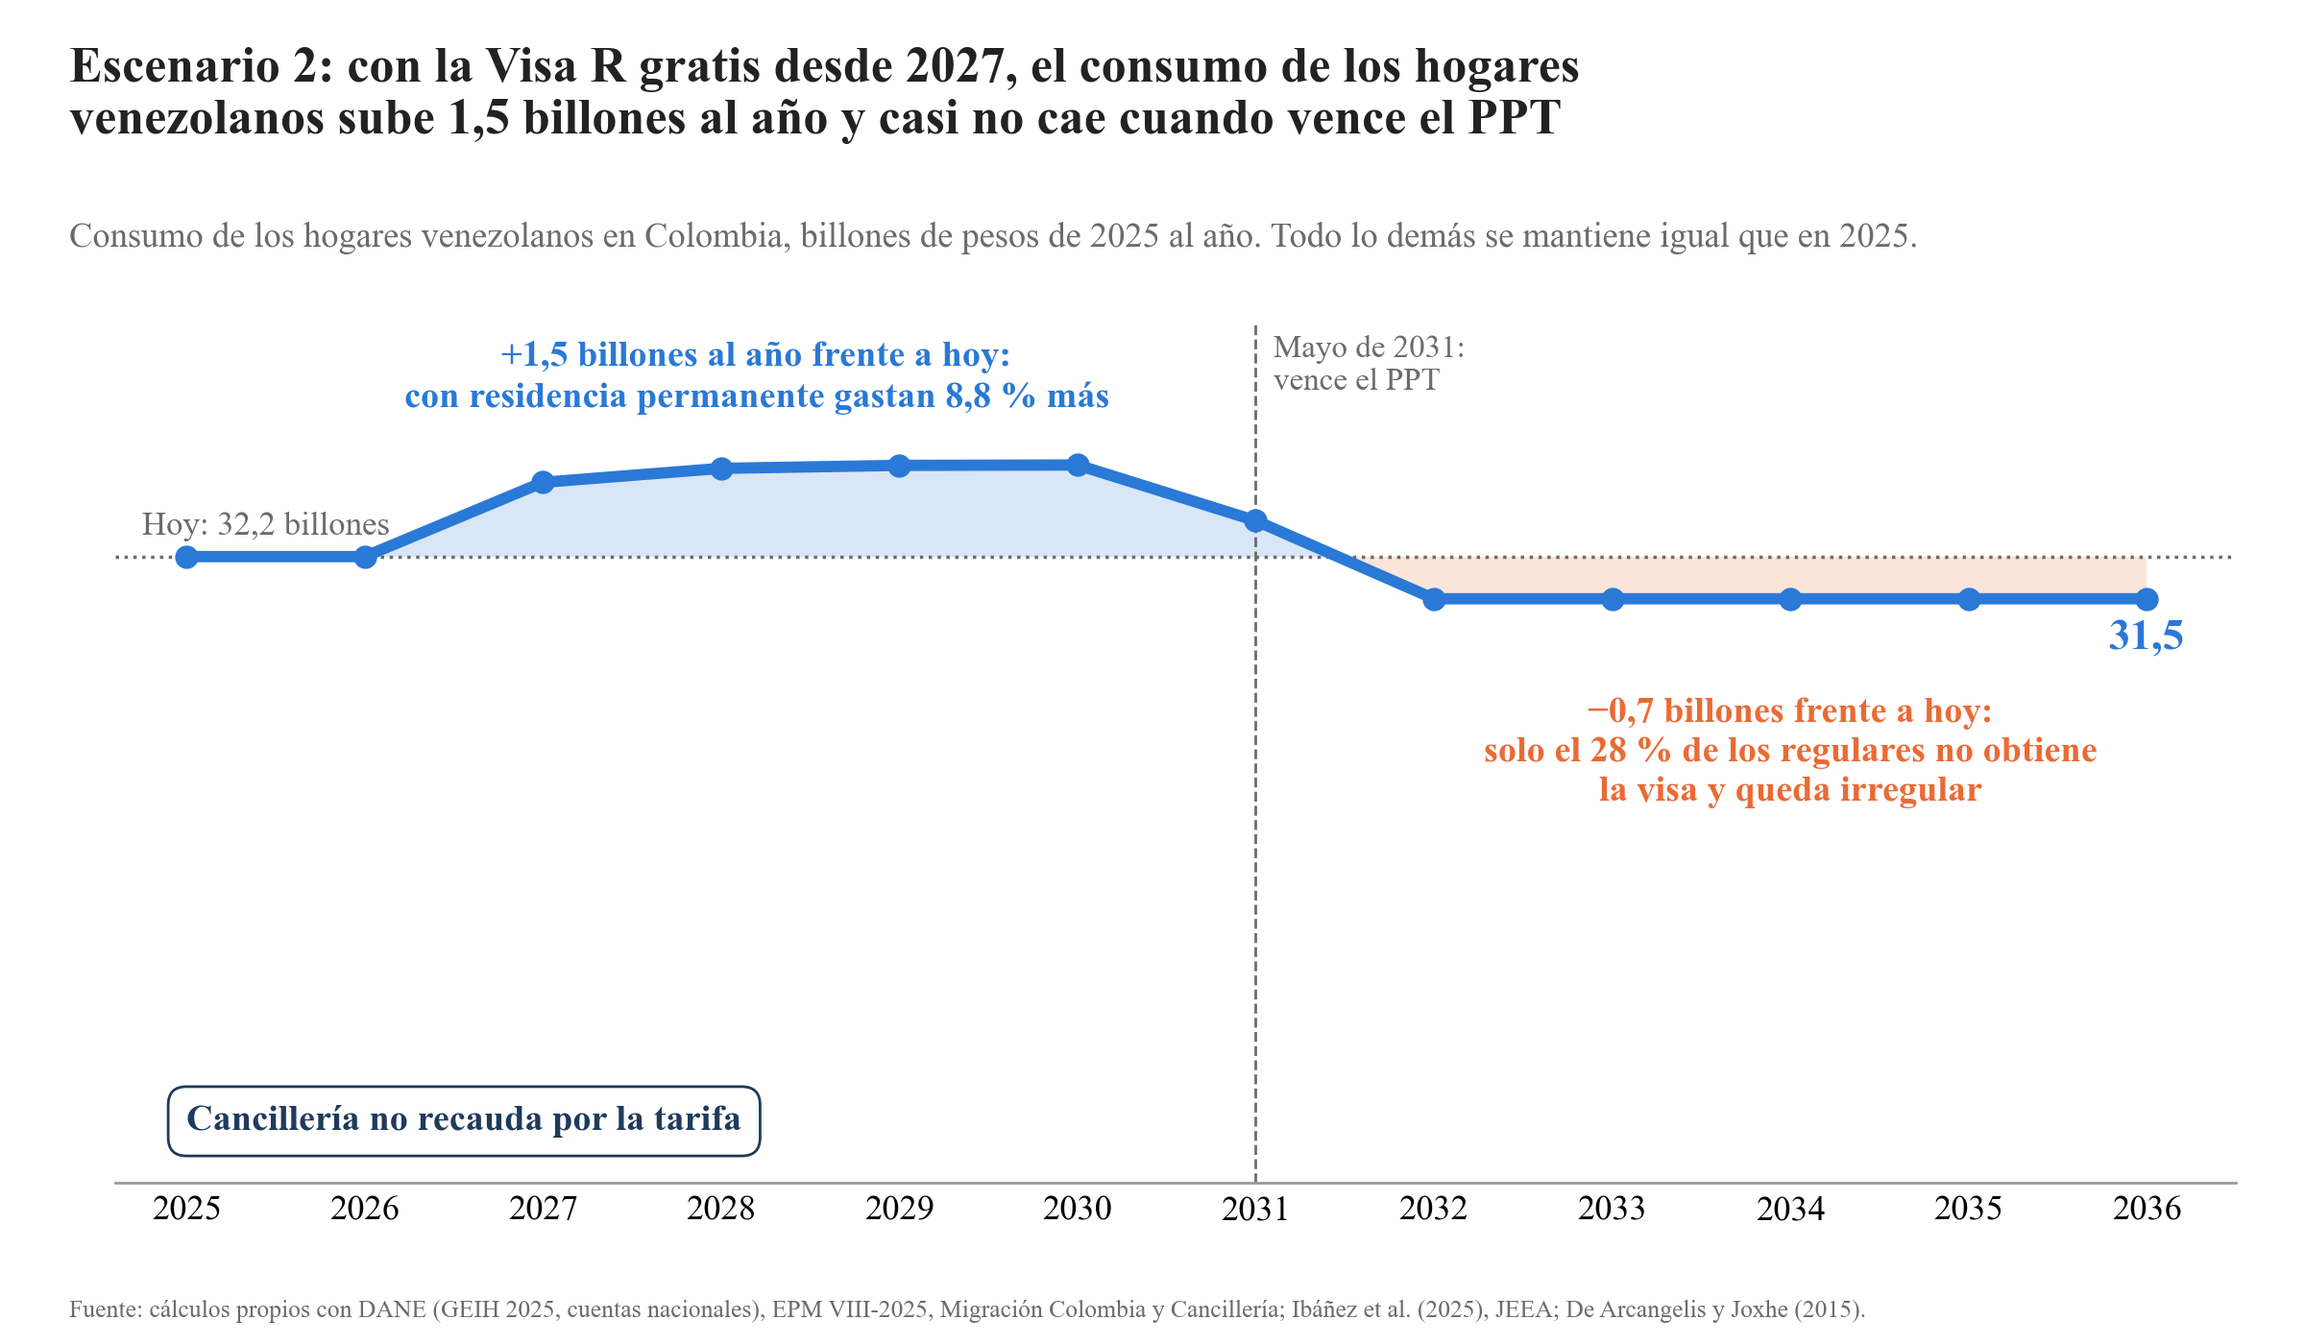
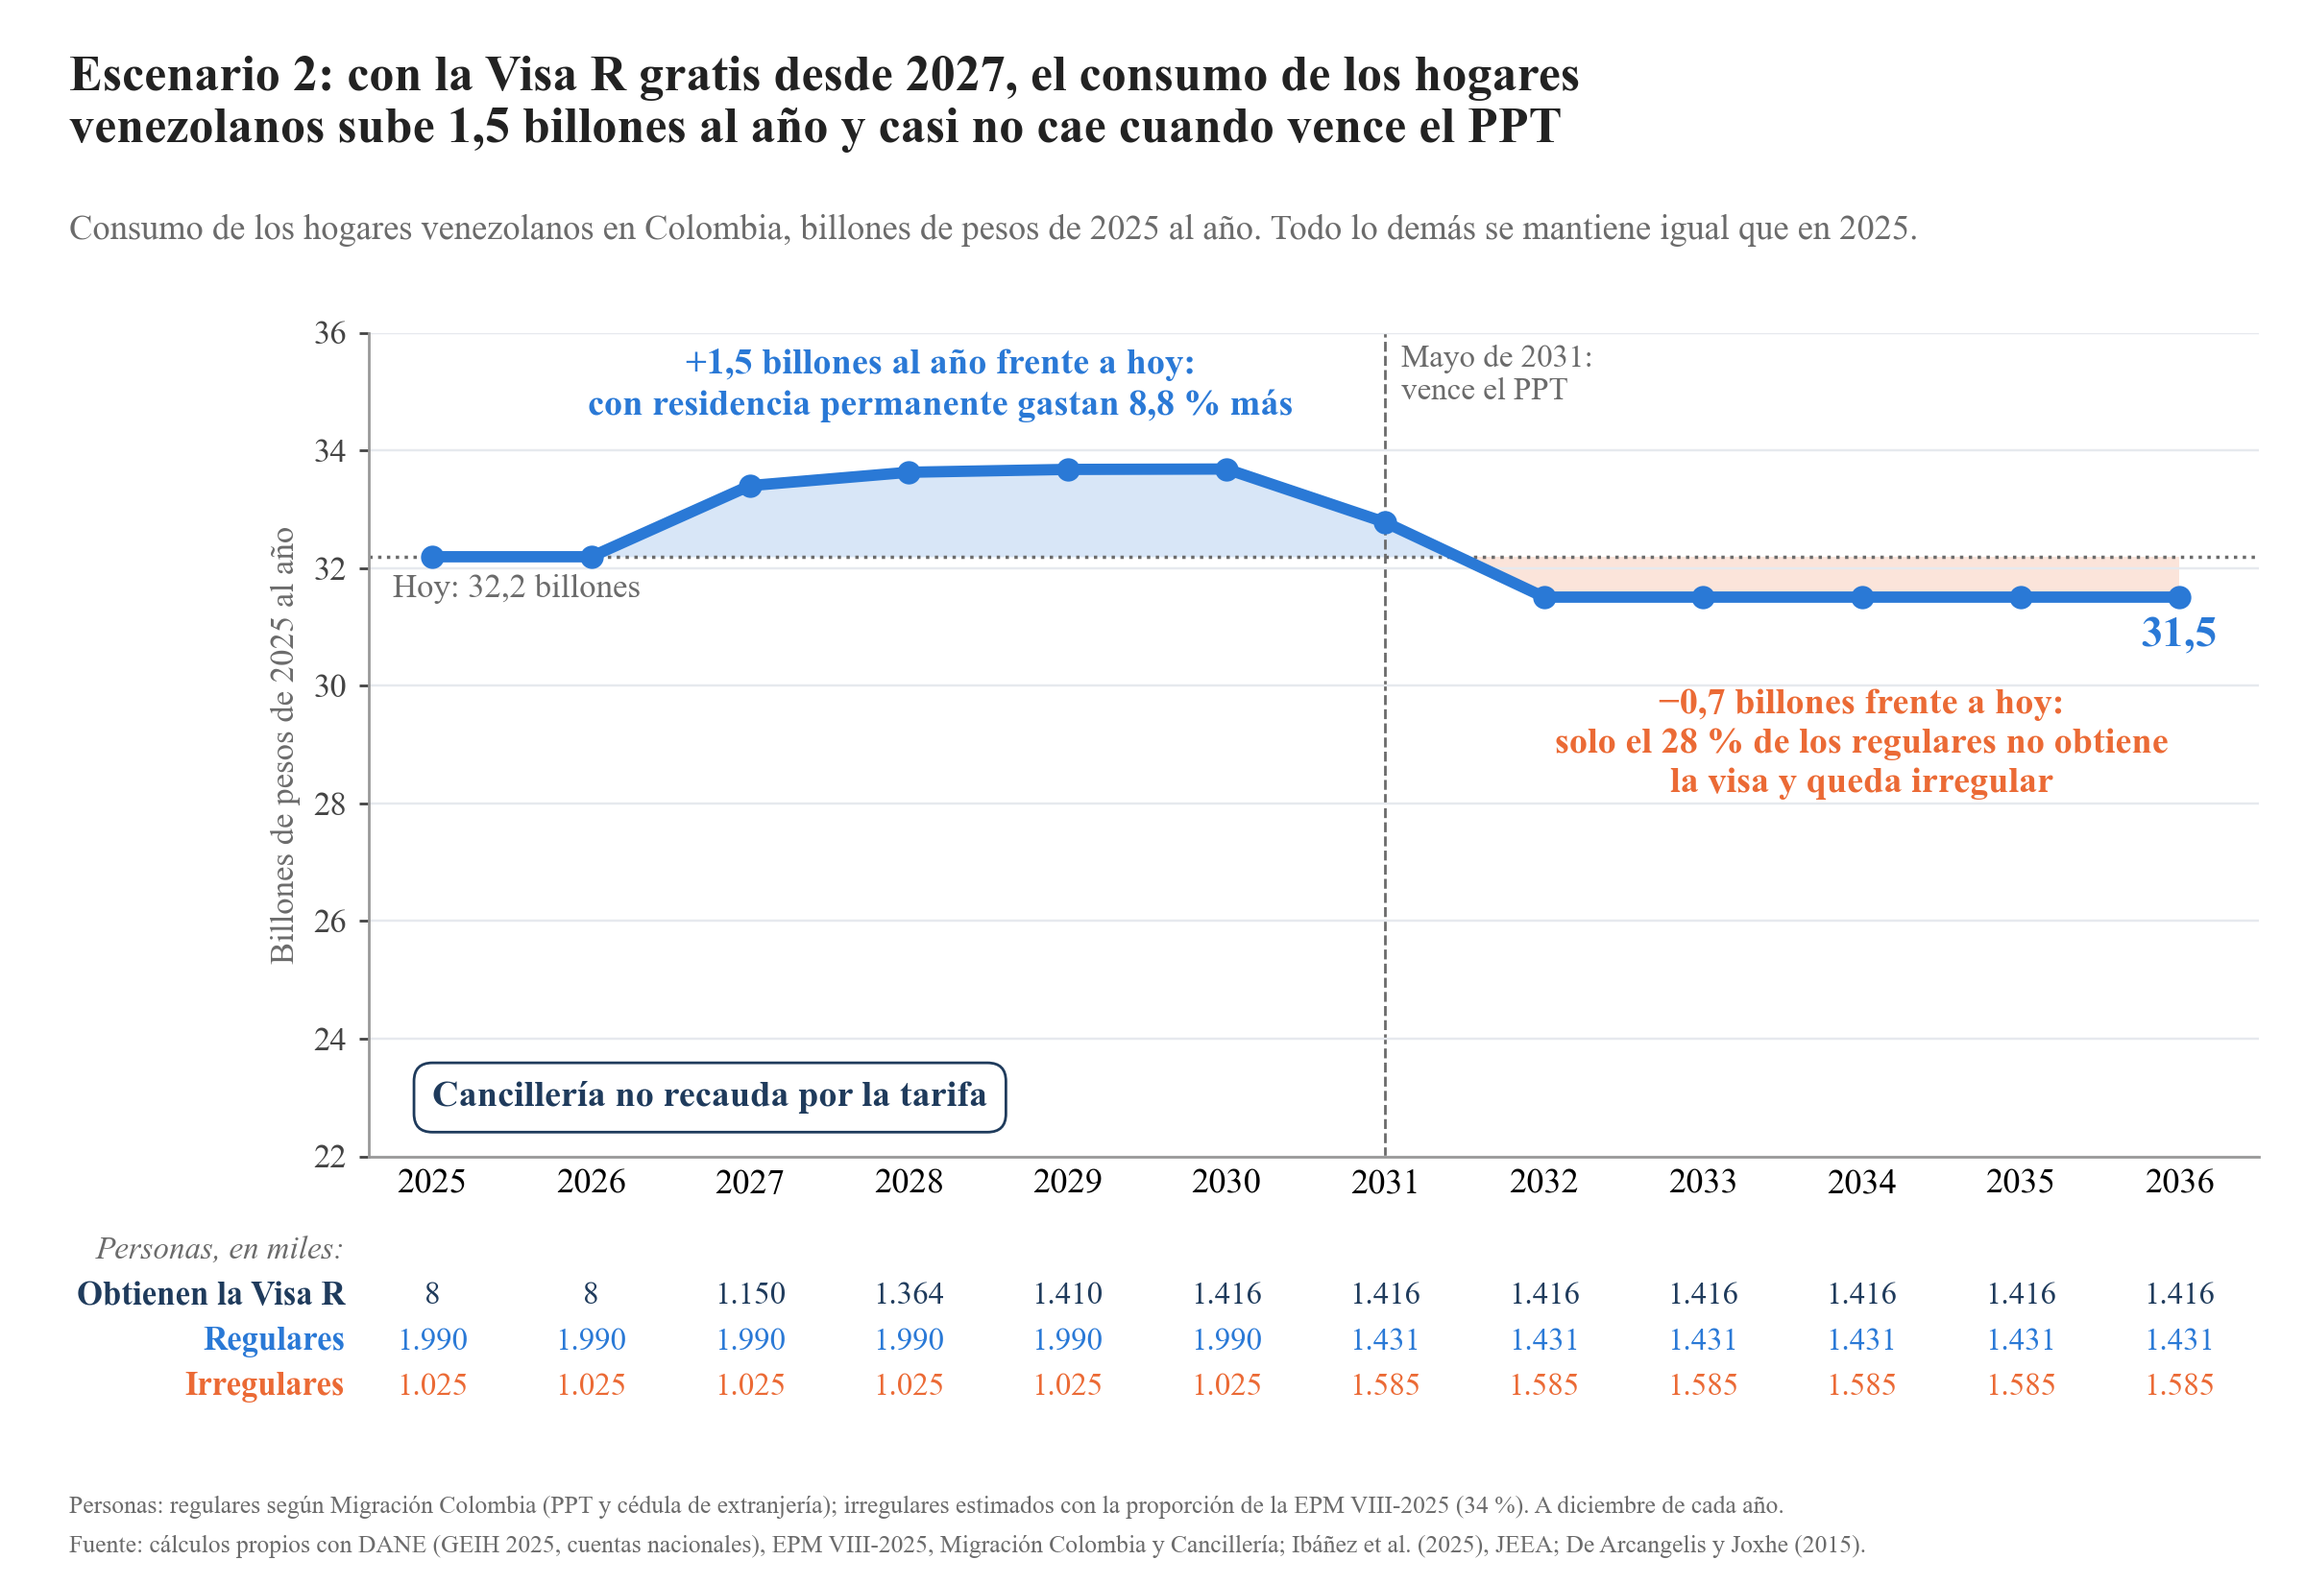
Escenarios de consumo: eje Y y tabla de personas con Visa R, regulares e irregulares

diff --git a/Code/39_grafico_dos_escenarios_consumo.py b/Code/39_grafico_dos_escenarios_consumo.py
@@ -37,6 +37,7 @@ t35 = pd.read_csv(TAB / "t35_consumo_residencia.csv").set_index("escenario")
 C_REG, C_IRR = t34["  regulares (billones)"], t34["  irregulares (billones)"]
 BONO = t35.loc["Central", "aumento_pct"] / 100                  # +8,8 % de consumo con residencia permanente
 TRM = 4052.86
+COB_EPM = 0.66
 
 # ---- personas que obtienen la Visa R (acumulado, base Migración Colombia)
 REG_MIG, RES, QUIEREN, CONV, BASE = 1_990_196, 14_444, 1_770_136, 0.80, 8_440
@@ -127,11 +128,11 @@ def partes(visas):
 def grafico(visas, tot, col, archivo, titulo, sub, notas, recaudo_txt, etq_anios=(2030, 2036)):
     """Una sola línea: el consumo total, comparado con hoy. Verde-azul donde gana, naranja donde pierde."""
     hoy = tot[0]
-    fig, ax = plt.subplots(figsize=(9.6, 5.6)); fig.subplots_adjust(left=0.05, right=0.97, top=0.76, bottom=0.12)
+    fig, ax = plt.subplots(figsize=(9.6, 6.6)); fig.subplots_adjust(left=0.16, right=0.98, top=0.79, bottom=0.27)
     ax.fill_between(YRS, hoy, tot, where=tot >= hoy, interpolate=True, color=BLUE, alpha=0.18, lw=0, zorder=1)
     ax.fill_between(YRS, hoy, tot, where=tot <= hoy, interpolate=True, color=ORANGE, alpha=0.18, lw=0, zorder=1)
     ax.axhline(hoy, color=GRAY, lw=1, ls=":", zorder=2)
-    ax.text(2024.75, hoy + 0.25, f"Hoy: {pc(hoy)} billones", fontsize=10, color=GRAY, va="bottom")
+    ax.text(2024.75, hoy - 0.3, f"Hoy: {pc(hoy)} billones", fontsize=10, color=GRAY, va="top")
     ax.plot(YRS, tot, color=col, lw=3.4, marker="o", ms=6, zorder=3)
     for y_, v in zip(YRS, tot):
         if y_ in etq_anios:
@@ -145,18 +146,36 @@ def grafico(visas, tot, col, archivo, titulo, sub, notas, recaudo_txt, etq_anios
             bbox=dict(boxstyle="round,pad=0.5", fc="white", ec=NAVY, lw=0.8))
     ax.set_xticks(YRS); ax.set_xticklabels([str(y) for y in YRS], fontsize=10.5)
     ax.set_xlim(2024.6, 2036.5); ax.set_ylim(22, 36)
-    ax.set_yticks([])
-    ax.tick_params(axis="x", length=0)
-    for s_ in ["top", "right", "left"]:
+    ax.set_yticks(range(22, 37, 2))
+    ax.yaxis.set_major_formatter(matplotlib.ticker.FuncFormatter(lambda v, _: pc(v, 0)))
+    ax.set_ylabel("Billones de pesos de 2025 al año", fontsize=10, color=GRAY)
+    ax.tick_params(axis="x", length=0); ax.tick_params(axis="y", labelsize=10, colors="#444444", length=3)
+    ax.grid(axis="y", color="#e6e9ee", lw=0.7, zorder=0)
+    for s_ in ["top", "right"]:
         ax.spines[s_].set_visible(False)
-    ax.spines["bottom"].set_color("#999999")
+    ax.spines["bottom"].set_color("#999999"); ax.spines["left"].set_color("#999999")
+    # tabla de personas (miles, a diciembre de cada año)
+    trans = matplotlib.transforms.blended_transform_factory(ax.transData, ax.transAxes)
+    ppt_rest = REG_MIG - visas - RES
+    reg = visas + RES + np.where(YRS < 2031, ppt_rest, 0)
+    irr = IRR0 + np.where(YRS >= 2031, ppt_rest, 0)
+    filas = [("Obtienen la Visa R", visas, NAVY), ("Regulares", reg, BLUE), ("Irregulares", irr, ORANGE)]
+    ax.text(2024.45, -0.115, "Personas, en miles:", transform=trans, ha="right", va="center", fontsize=9.5, color=GRAY, style="italic")
+    for k, (nom, serie, c_) in enumerate(filas):
+        yy = -0.17 - 0.055 * k
+        ax.text(2024.45, yy, nom, transform=trans, ha="right", va="center", fontsize=10, fontweight="bold", color=c_)
+        for x_, v in zip(YRS, serie):
+            ax.text(x_, yy, miles(v / 1e3), transform=trans, ha="center", va="center", fontsize=9.5, color=c_)
     fig.text(0.03, 0.965, titulo, fontsize=15, fontweight="bold", ha="left", va="top")
-    fig.text(0.03, 0.835, sub, fontsize=10.5, ha="left", va="top", color=GRAY)
+    fig.text(0.03, 0.865, sub, fontsize=10.5, ha="left", va="top", color=GRAY)
+    fig.text(0.03, 0.045, "Personas: regulares según Migración Colombia (PPT y cédula de extranjería); irregulares estimados con la proporción de la EPM VIII-2025 (34 %)."
+             + " A diciembre de cada año.", fontsize=7.4, color=GRAY, ha="left")
     fig.text(0.03, 0.02, "Fuente: cálculos propios con DANE (GEIH 2025, cuentas nacionales), EPM VIII-2025, Migración Colombia y Cancillería; Ibáñez et al. (2025), JEEA;"
              + " De Arcangelis y Joxhe (2015).", fontsize=7.4, color=GRAY, ha="left")
     fig.savefig(FIG / archivo, dpi=250, facecolor="white"); plt.close(fig)
 
 
+IRR0 = REG_MIG * (1 - COB_EPM) / COB_EPM          # irregulares: 34 % de los venezolanos (EPM), aplicado a los regulares de Migración
 SUB = "Consumo de los hogares venezolanos en Colombia, billones de pesos de 2025 al año. Todo lo demás se mantiene igual que en 2025."
 irr_t = 1 - (visa_tarifa[-1] + RES) / REG_MIG
 irr_c = 1 - (visa_cero[-1] + RES) / REG_MIG
